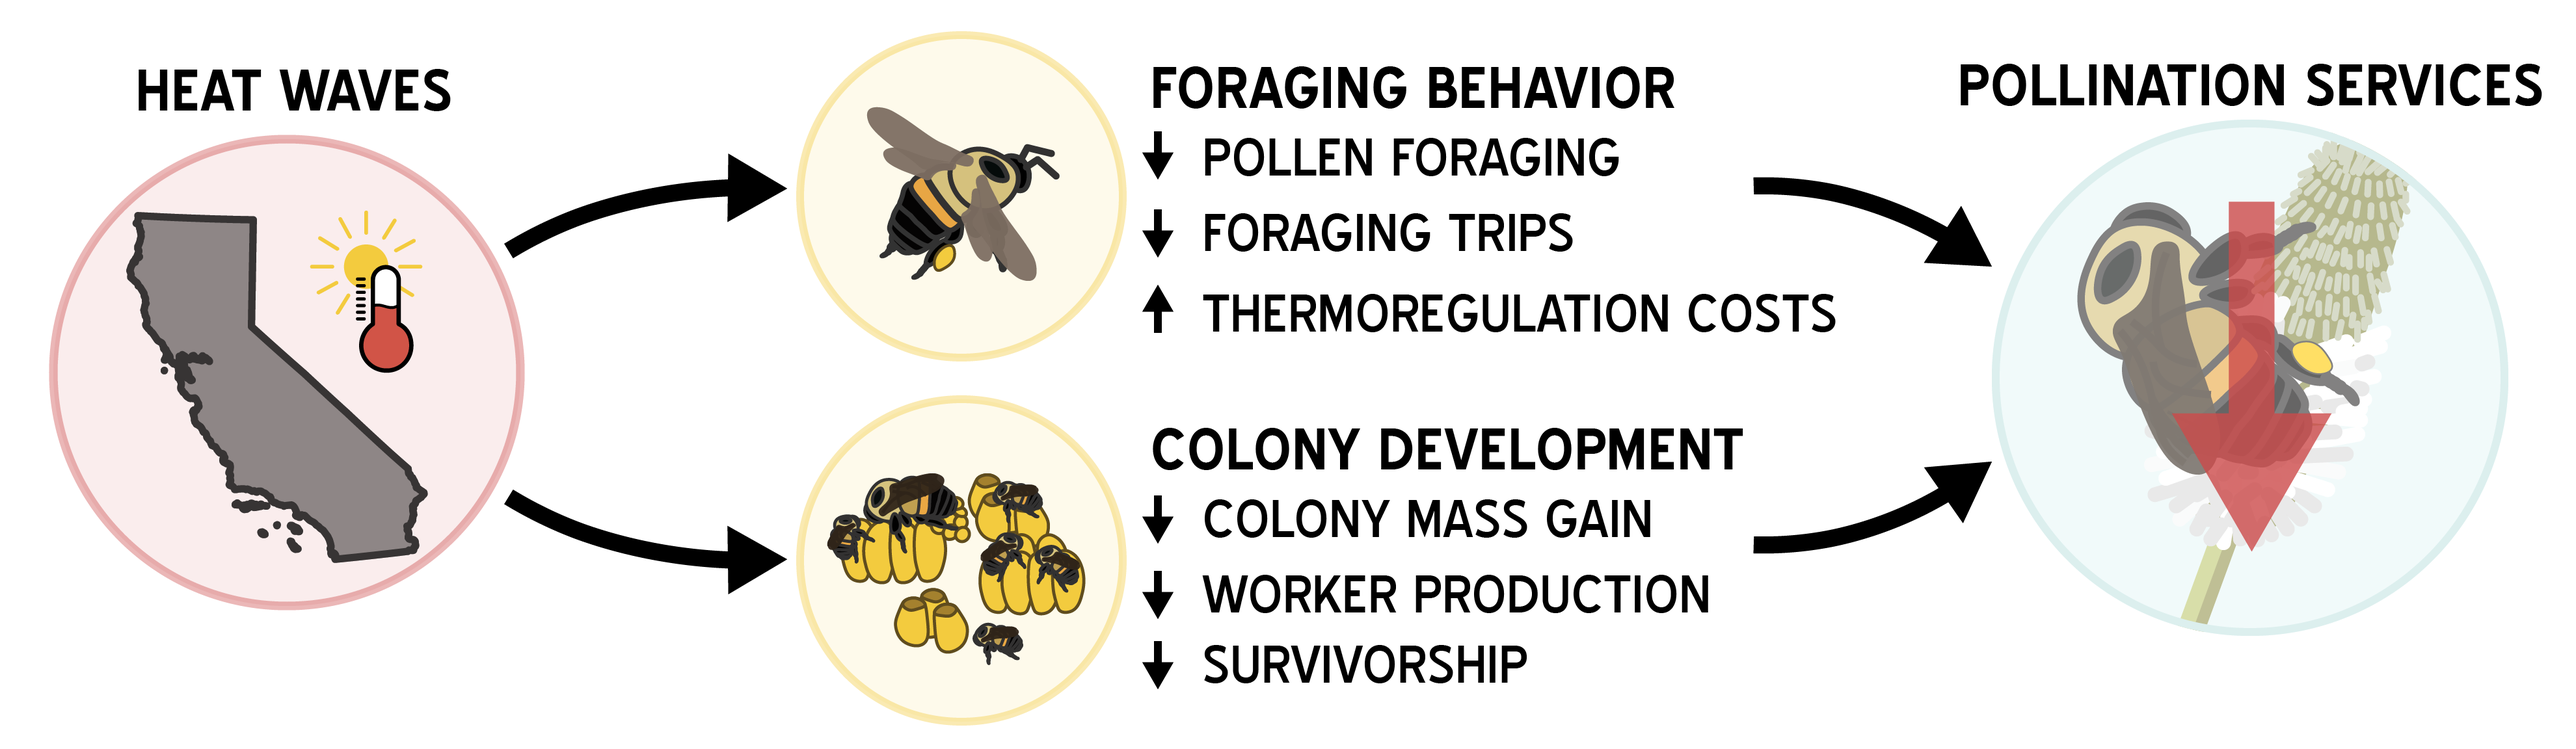
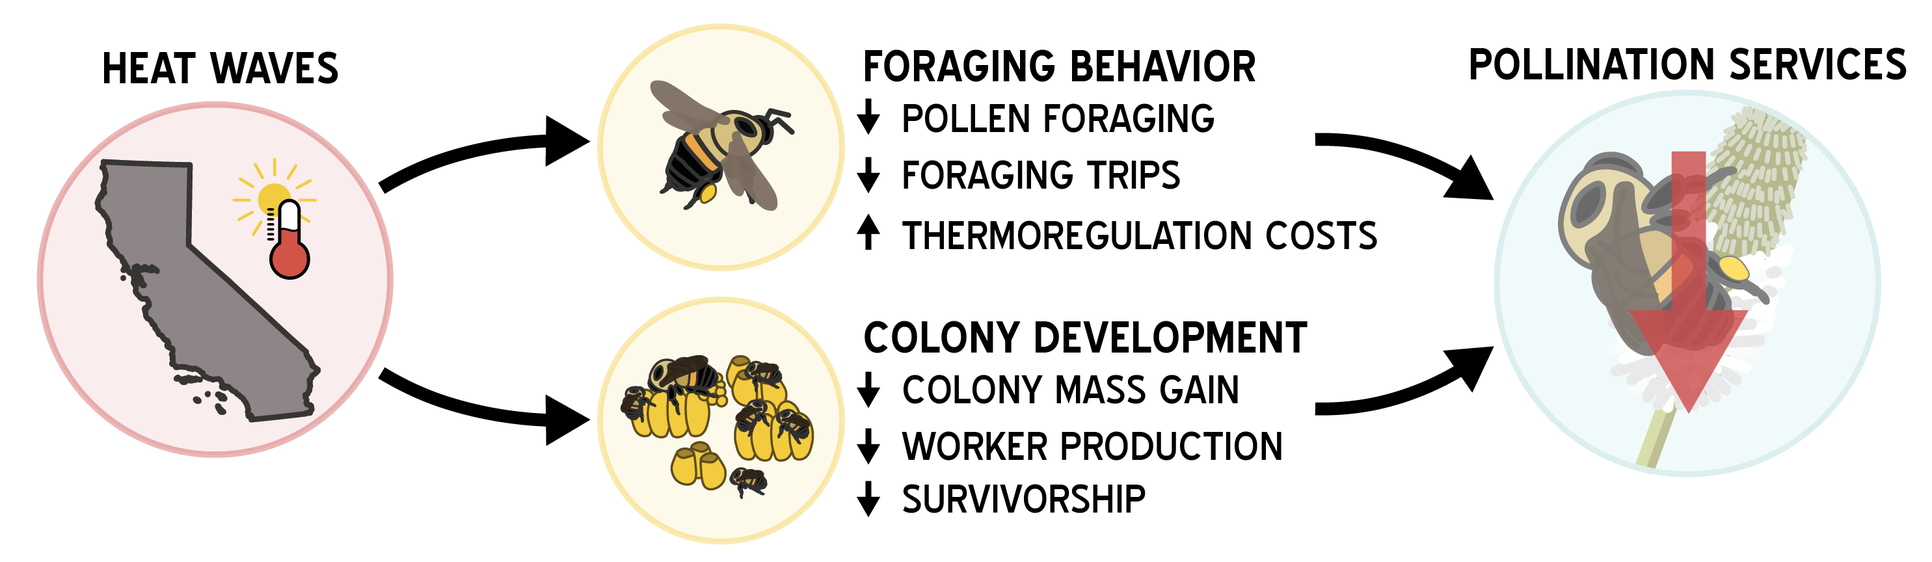
update research page

diff --git a/research/index.html b/research/index.html
@@ -12,11 +12,11 @@
     <meta name="twitter:card" content="summary"/>
 <meta name="twitter:title" content="Research"/>
 <meta name="twitter:description" content="Below you&rsquo;ll find a brief snapshot of my current and past projects, including collaborative work with colleagues near and far.
-A tale of two (groups of) bees: why are some midwestern bumble bees struggling while others thrive? PhD Dissertation Research | University of Wisconsin-Madison"/>
+Can bees take the heat? Exploring bumble bee responses to extreme heat in a changing climate USDA NIFA Postdoctoral Research | University of California Davis If there&rsquo;s anything that 2020 has shown us thus far here in California, it&rsquo;s that the impacts of climate change are playing out now."/>
 
     <meta property="og:title" content="Research" />
 <meta property="og:description" content="Below you&rsquo;ll find a brief snapshot of my current and past projects, including collaborative work with colleagues near and far.
-A tale of two (groups of) bees: why are some midwestern bumble bees struggling while others thrive? PhD Dissertation Research | University of Wisconsin-Madison" />
+Can bees take the heat? Exploring bumble bee responses to extreme heat in a changing climate USDA NIFA Postdoctoral Research | University of California Davis If there&rsquo;s anything that 2020 has shown us thus far here in California, it&rsquo;s that the impacts of climate change are playing out now." />
 <meta property="og:type" content="article" />
 <meta property="og:url" content="/research/" />
 <meta property="article:published_time" content="2020-02-14T11:08:01-08:00" />
@@ -182,13 +182,32 @@ A tale of two (groups of) bees: why are some midwestern bumble bees struggling w
 </div>
 
 Below you&rsquo;ll find a brief snapshot of my current and past projects, including collaborative work with colleagues near and far.</p>
+<h1 id="can-bees-take-the-heat-exploring-bumble-bee-responses-to-extreme-heat-in-a-changing-climate">Can bees take the heat? Exploring bumble bee responses to extreme heat in a changing climate</h1>
+<p><strong>USDA NIFA Postdoctoral Research | University of California Davis</strong>
+If there&rsquo;s anything that 2020 has shown us thus far here in California, it&rsquo;s that the impacts of climate change are playing out now. We&rsquo;ve experienced record heat this year on top of a historic wildfire season. For cold-adapted species like bumble bees, how might these new norms of higher average temperatures and an increasing frequency, duration, and intensity of heat waves impact bumble bees?</p>
+<p>Most animals have a temperature limit above which they cannot fully function. For fur-coat covered bumble bees, a unique group invertebrates that actually do have control over their body temperature (via shivering and heat &ldquo;dumping&rdquo;), heat waves may pose a distinct threat of having temperatures far exceed bumble bees&rsquo; operational threshold temperature. In such cases, bumble bees may stop foraging for food while they await the temperature to decrease. For heatwaves that last for several days, this could mean bumble bees are unable to acquire the pollen and nectar required to sustain their colony, resulting in negative effects on colony development and reproduction. Additionally, heat waves during critical windows (such as crop bloom) might result in a decrease in visitation to crops, threatening pollination services and resultant crop yields.</p>
+
+<link rel="stylesheet" href="/css/hugo-easy-gallery.css" />
+<div class="box" >
+  <figure  itemprop="associatedMedia" itemscope itemtype="http://schema.org/ImageObject">
+    <div class="img">
+      <img itemprop="thumbnail" src="/images/projects/nifa_concept_fig.png" alt="Hypothesized impact of the increasing frequency, duration, and intensity of heat waves on bumble bees and the ecolgoical services they provide."/>
+    </div>
+    <a href="/images/projects/nifa_concept_fig.png" itemprop="contentUrl"></a>
+      <figcaption>
+          <p>Hypothesized impact of the increasing frequency, duration, and intensity of heat waves on bumble bees and the ecolgoical services they provide.</p>
+      </figcaption>
+  </figure>
+</div>
+
+<p>To address this, I am exploring the impacts of extreme temperatures on bumble bee foraging behavior and colony development to build a better understanding of how our changing climate might impact this important group of insects. This work will be accomplished by exposing bumble bees to extreme heat in laboratory settings (using microcolonies and heated foraging chambers) and in the field (using reciprocal transplants to test wild colony’s response to a range of climatic conditions, as well as observational studies). The results of this project will improve the management of agricultural landscapes by bolstering farmer, advisor, and governmental groups ability to plan for worsening extreme weather events.</p>
 <h1 id="a-tale-of-two-groups-of-bees-why-are-some-midwestern-bumble-bees-struggling-while-others-thrive">A tale of two (groups of) bees: why are some midwestern bumble bees struggling while others thrive?</h1>
 <p><strong>PhD Dissertation Research | University of Wisconsin-Madison</strong></p>
 <p>Recently, a number of high profile studies on the status of bumble bees have sounded alarms among ecologists, entomologists, and the public writ large.  These familiar, fluffy friends are not only a harbinger of spring and summer, they are important pollinators of a number of important agricultural crops thanks to their ability to buzz pollinate, visit crops on cold/wet days (thanks to a warm coat of &ldquo;fur&rdquo; which entomologists call &ldquo;pile&rdquo;), and other morphological adaptations.</p>
 <p>Despite the importance of bumble bees, a number of species have exhibited marked declines over the last 50 years.  A number of factors have been implicated, including climate change, habitat loss, novel pathogens, and insecticide use.  Surprisingly, the same period of time that saw several species populations plummet has seen others increase dramatically.  This temporal linkage in species status, traceable to a period in the mid 20th century, suggests that the same factors might be responsible for the rise of some bumble bee species while others struggle.</p>
 <p>This begs the question: <em><strong>what has changed over the last century that could have led the observed dichotomy of bumble bee population trends?</strong></em>  Most studies suggest that as agriculture has taken over as the dominate land-use in the world, bumble bees have lost vital habitat and flowers - the sole source of food for foraging bumble bees.  In the place of flower-rich meadows and wetlands, we have planted vast monocultures that only provide pollen and/or nectar for short periods of time.  Because bumble bee colonies are active throughout the spring and summer, they need consistent supplies of pollen and nectar to successfully grow and reproduce.  The thought is that some species are far better able to adapt to these changes than others, accounting for the differential response of bumble bee species.</p>
 
-<link rel="stylesheet" href="/css/hugo-easy-gallery.css" />
+
 <div class="box" >
   <figure  itemprop="associatedMedia" itemscope itemtype="http://schema.org/ImageObject">
     <div class="img">
@@ -203,7 +222,7 @@ Below you&rsquo;ll find a brief snapshot of my current and past projects, includ
 
 <p>The above question was the driving force behind my PhD research.  To begin to address it, I examined a common, increasing species in the eastern US, the common eastern bumble bee (<em>Bombus impatiens</em>), to evaluate its response to modern agricultural landscapes.  Additionally, I linked museum and citizen science observations of bumble bees to agricultural practices to determine whether an increase in the intensity of agricultural practices could explain both the rise of species like <em>B. impatiens</em> and the decline of others such as <em>B. terricola</em>.</p>
 <p>Each of my PhD chapters is listed below along with the abstract from my thesis.  I will be re-writing each of these in the coming weeks so that they are more accessible!</p>
-<h4 id="hahahugoshortcode-s2-hbhb-floral-resource-pulse-decreases-bumble-bee-foraging-trip-duration-in-central-wisconsin-agroecosystem">
+<h4 id="hahahugoshortcode-s3-hbhb-floral-resource-pulse-decreases-bumble-bee-foraging-trip-duration-in-central-wisconsin-agroecosystem">
 
   
   <script defer src="/fontawesome-all.js"></script>
@@ -211,22 +230,22 @@ Below you&rsquo;ll find a brief snapshot of my current and past projects, includ
 <i class="fas  fa-stopwatch "></i> Floral resource pulse decreases bumble bee foraging trip duration in central Wisconsin agroecosystem</h4>
 <p>Resource pulses, narrow periods of high resource availability, can elicit strong behavioral responses across diverse taxa. Mass-flowering agricultural crops are an example of a resource pulse that insect pollinators exploit. However, the underlying mechanism behind changes in pollinator behavior associated with mass-flowering crops is still relatively unexplored. The present study quantified the behavioral response of bumble bees, an important wild pollinator, to commercial cranberry bloom, an important mass-flowering crop in Wisconsin, U.S.A. Over a 2-year period, foraging trip duration was measured using radio frequency identification at 14 farms situated across landscape contexts, ranging from high to low natural area (woodland amount). Using transect surveys, floral resource abundance at a landscape scale was estimated. It was found that bumble bees were highly sensitive to temporal changes in landscape-level resource abundance associated with the onset of cranberry bloom, during which they decreased foraging trip duration by 22% and increased the number of foraging trips during bloom by 24% on average relative to the period before and after bloom. This phenomenon was consistent across colonies, individual bees, and landscape contexts, despite a higher abundance of flowers in low woodland landscapes. Bumble bee colonies growing in low- and high-woodland landscapes exhibited a similar performance. As mass-flowering crops are probably a factor influencing bumble bee foraging behavior in agricultural regions, investigations should continue into how variable resource landscapes, particularly those offering resource pulses, affect wild pollinators and the pollination services they provide. <em>Ecological Entomology</em> 2018.</p>
 <hr>
-<h4 id="hahahugoshortcode-s3-hbhb-saved-by-the-pulse-separating-the-effects-of-total-and-temporal-food-abundance-on-the-growth-and-reproduction-of-bumble-bee-microcolonies">
+<h4 id="hahahugoshortcode-s4-hbhb-saved-by-the-pulse-separating-the-effects-of-total-and-temporal-food-abundance-on-the-growth-and-reproduction-of-bumble-bee-microcolonies">
 
 <i class="fas  fa-wave-square "></i> Saved by the pulse? Separating the effects of total and temporal food abundance on the growth and reproduction of bumble bee microcolonies</h4>
-<p>The loss of flower-rich habitat in agricultural landscapes is a key factor contributing to bumble bee declines across Europe and North America. Yet, agricultural intensification has not only altered flower abundance in the landscape, but also affected when flowers are available during the season (e.g., mass-flowering crops). While we know that both total pollen and nectar as well as temporal availability can impact bumble bee colony success (growth and reproductive output), we have yet to understand how these two factors combined might manifest. We designed an experiment to decouple the effects of total food abundance and its temporal availability on bumble bee microcolony development by exposing them to either constant or pulsed food availability at a high and low ration level. Microcolonies provided constant, high-rations of food grew the most, while those fed variable, but high rations gained less mass over the course of the experiment. Regardless of the temporal presentation of food, microcolonies fed low rations gained little mass over the experiment. Reproductive output was greatest in microcolonies fed high rations, regardless of the temporal availability of food, while those given low rations produced on average 27% fewer drones. This study highlights the importance of flower abundance for both colony growth and reproduction, regardless of how food is presented (e.g., constantly or in a pulse). Together, these results indicate that increasing total food abundance will have the greatest, positive impact on colony fitness. <em>In revision</em></p>
+<p>The loss of flower-rich habitat in agricultural landscapes is a key factor contributing to bumble bee declines across Europe and North America. Yet, agricultural intensification has not only altered flower abundance in the landscape, but also affected when flowers are available during the season (e.g., mass-flowering crops). While we know that both total pollen and nectar as well as temporal availability can impact bumble bee colony success (growth and reproductive output), we have yet to understand how these two factors combined might manifest. We designed an experiment to decouple the effects of total food abundance and its temporal availability on bumble bee microcolony development by exposing them to either constant or pulsed food availability at a high and low ration level. Microcolonies provided constant, high-rations of food grew the most, while those fed variable, but high rations gained less mass over the course of the experiment. Regardless of the temporal presentation of food, microcolonies fed low rations gained little mass over the experiment. Reproductive output was greatest in microcolonies fed high rations, regardless of the temporal availability of food, while those given low rations produced on average 27% fewer drones. This study highlights the importance of flower abundance for both colony growth and reproduction, regardless of how food is presented (e.g., constantly or in a pulse). Together, these results indicate that increasing total food abundance will have the greatest, positive impact on colony fitness. <em>Basic and Applied Ecology</em> 2020.</p>
 <hr>
-<h4 id="hahahugoshortcode-s4-hbhb-equivalent-growth-and-reproduction-of-field-colonies-of-common-eastern-bumble-bees-_bombus-impatiens_-cresson-despite-differential-temporal-resource-availability">
+<h4 id="hahahugoshortcode-s5-hbhb-equivalent-growth-and-reproduction-of-field-colonies-of-common-eastern-bumble-bees-_bombus-impatiens_-cresson-despite-differential-temporal-resource-availability">
 
 <i class="fas  fa-wave-square "></i> Equivalent growth and reproduction of field colonies of common eastern bumble bees (<em>Bombus impatiens</em> Cresson) despite differential temporal resource availability</h4>
 <p>Centuries of anthropogenic landscape alterations, primarily for agricultural purposes, have dramatically changed the temporal availability of wildflowers that support key pollinating insects such as bumble bees. The ability of bumble bees to adapt to these changes is paramount to ensure species persistence, and while several species appear to be unable to withstand more variable floral resource abundance, several others may be suited to exploit these conditions. We tested whether free-foraging colonies of an increasingly common species, <em>Bombus impatiens</em>, performed equally well given access to either temporally continuous, or temporally variable purple tansy (<em>Phacelia tanacetifolia</em>) plantings, and also compared these to a control landscape lacking phacelia plantings. We found that colonies given access to phacelia grew at slightly elevated rates relative to control colonies, however total mass gain was consistent regardless of the treatment. Colonies with access to phacleia produced similar numbers of gynes, however that number was 125% greater landscape control colonies. Together, these results suggest that, despite differential temporal availability of phacelia (continuous planting versus a single, large pulse), colonies of <em>B. impatiens</em> were able to exploit those resources equally, resulting in elevated production of gynes relative to control landscapes with no phacelia. Our results support the adaptive capacity of <em>B. impatiens</em> in dealing with highly disturbed landscapes, and suggest that studies comparing common species responses to those of rarer species are needed. <em>In prep</em></p>
 <hr>
-<h4 id="hahahugoshortcode-s5-hbhb-modeling-bumble-bee-abundance-using-land-cover-expert-opinion-and-empirical-approaches-to-estimating-spatiotemporal-floral-resource-abundance">
+<h4 id="hahahugoshortcode-s6-hbhb-modeling-bumble-bee-abundance-using-land-cover-expert-opinion-and-empirical-approaches-to-estimating-spatiotemporal-floral-resource-abundance">
 
 <i class="fas  fa-chart-line "></i> Modeling bumble bee abundance using land cover, expert opinion, and empirical approaches to estimating spatiotemporal floral resource abundance</h4>
 <p>The quantification of floral resources is essential to understand patterns of bee diversity and abundance, particularly in the context of stemming ongoing bee declines through flower-planting based conservation initiatives. A variety of methodological approaches are used to quantify floral landscapes, including land cover based proxies, expert opinion, and empirical estimates. Each approach offers unique challenges, and as of yet no studies have directly compared these three methods in any context. We quantified flower abundance of a diverse agricultural landscape in central Wisconsin using all three methods, and then compared estimated flower abundance, as well as the predictive power of each approach in estimating bumble bee abundance. We found that, despite dramatic differences in floral resource estimates (particularly among expert and empirical approaches), each approach performed similarly in predicting bumble bee abundance. The comparisons presented here offer a decision framework to those pursuing questions in need of floral resource quantification, as well as provide a discussion of the benefits and drawbacks of each approach. <em>In prep</em></p>
 <hr>
-<h4 id="hahahugoshortcode-s6-hbhb-the-fate-of-bumble-bees-in-the-north-central-united-states-parallels-historical-patterns-of-agricultural-intensification">
+<h4 id="hahahugoshortcode-s7-hbhb-the-fate-of-bumble-bees-in-the-north-central-united-states-parallels-historical-patterns-of-agricultural-intensification">
 
 <i class="fas  fa-tractor "></i> The fate of bumble bees in the north-central United States parallels historical patterns of agricultural intensification</h4>
 <p>The decline of North American bumble bees has been tentatively linked to changes in agricultural practices over the last century.  Researchers posit that a switch from the diverse and less intensive agricultural systems of the early 1900&rsquo;s to the largely monocultural, heavy-input systems of today has likely impacted both nesting habitat and floral resource availability with negative consequences for bumble bee populations and communities.  Despite several long-term analyses highlighting concerning population trends, no studies have yet explicitly linked metrics of agricultural intensification to bumble bee declines.  Using an extensive long term set of both bumble bee records and US agricultural census records, we show that metrics of increasing agricultural intensity are clearly associated with the decline of a 40% of bumble bee species in the US Midwest.  Additionally, we document several species increasing in relative abundance that positively associate with agricultural intensity, suggesting our agricultural practices have inadvertently selected winners and losers in the bumble bee community over the last century.  In addition to suggesting future avenues for controlled, manipulative experiments, our results suggest that changes to our agricultural practice and policies are required in order to limit additional declines of Midwestern bumble bees. <em>In prep</em></p>
@@ -235,25 +254,11 @@ Below you&rsquo;ll find a brief snapshot of my current and past projects, includ
 <div class="box" >
   <figure  itemprop="associatedMedia" itemscope itemtype="http://schema.org/ImageObject">
     <div class="img">
-      <img itemprop="thumbnail" src="/images/projects/impatiens.png" alt="The relative abundance and predicted occurrence of Bombus impatiens has increased dramatically over the last 130 years."/>
+      <img itemprop="thumbnail" src="/images/projects/spp_compare.png" alt="An illustration of the two distinct patterns of bumble bee response to agricultural intensification in the Midwest. These figures are a product of statistical models that predict the change in likelihood occurrence for each bumble bee species in the region."/>
     </div>
-    <a href="/images/projects/impatiens.png" itemprop="contentUrl"></a>
+    <a href="/images/projects/spp_compare.png" itemprop="contentUrl"></a>
       <figcaption>
-          <p>The relative abundance and predicted occurrence of Bombus impatiens has increased dramatically over the last 130 years.</p>
-      </figcaption>
-  </figure>
-</div>
-
-
-
-<div class="box" >
-  <figure  itemprop="associatedMedia" itemscope itemtype="http://schema.org/ImageObject">
-    <div class="img">
-      <img itemprop="thumbnail" src="/images/projects/terricola.png" alt="In contrast, the relative abundance and predicted occurrence of Bombus terricola has declined.  What is driving the difference in abundance trends between these two species?"/>
-    </div>
-    <a href="/images/projects/terricola.png" itemprop="contentUrl"></a>
-      <figcaption>
-          <p>In contrast, the relative abundance and predicted occurrence of Bombus terricola has declined.  What is driving the difference in abundance trends between these two species?</p>
+          <p>An illustration of the two distinct patterns of bumble bee response to agricultural intensification in the Midwest. These figures are a product of statistical models that predict the change in likelihood occurrence for each bumble bee species in the region.</p>
       </figcaption>
   </figure>
 </div>
